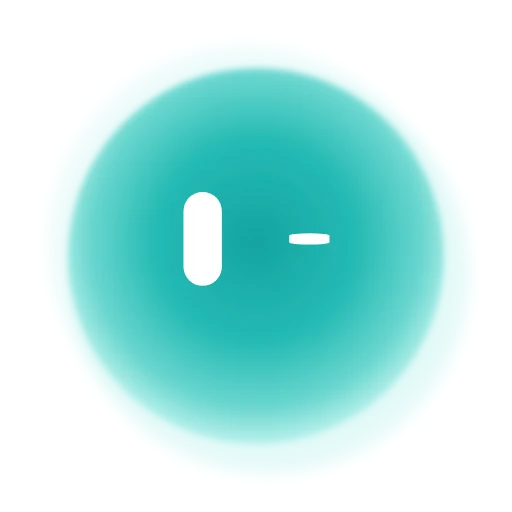
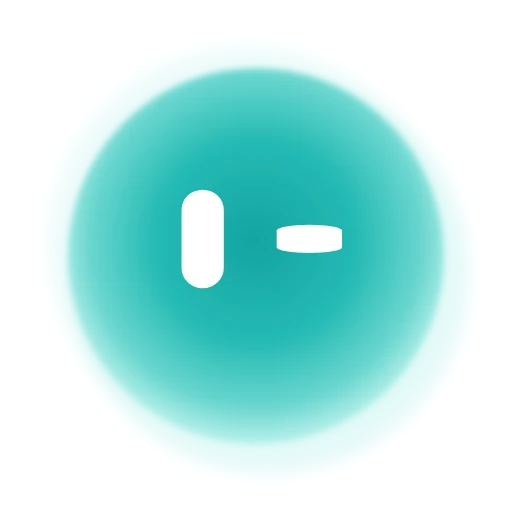
Mascotte : clin d'œil bien visible (complice)
L'œil fermé devient un trait plus large et plus épais, l'œil ouvert un peu plus grand.

Claude-Session: https://claude.ai/code/session_01AT7rn9QSeKipCGAkHZqtFR

Changed region(s): [[0.3438, 0.3438, 0.4375, 0.5625], [0.5312, 0.4375, 0.6875, 0.5]]

diff --git a/site/assets/face.js b/site/assets/face.js
@@ -13,7 +13,7 @@
     amour: { tint: C('#E0457B', '#EE6A97', '#F7A3C0', '#FFD3E2'), eyes: { l: [1.12, 1.08], r: [1.12, 1.08], a: 'pulse' } },
     fierte: { tint: C('#7A4BD8', '#9166E6', '#B596F2', '#DCCBFF'), eyes: { l: [1, .62], r: [1, .62], d: [0, -3] } },
     excite: { tint: C('#F06A12', '#F7872E', '#FBAE66', '#FFD6AE'), eyes: { l: [1.1, 1.2], r: [1.1, 1.2], a: 'sparkle' }, anim: 'hop' },
-    clin: { tint: C('#14A3A0', '#25BAB4', '#6AD6CF', '#B8F1EC'), eyes: { r: [1.05, .12], a: 'wink' } },
+    clin: { tint: C('#14A3A0', '#25BAB4', '#6AD6CF', '#B8F1EC'), eyes: { l: [1.1, 1.05], r: [1.7, .3], a: 'wink' } },
     malice: { tint: C('#8E3FB8', '#A659CC', '#C68DE0', '#EACBF7'), eyes: { l: [1, .55], r: [1, .55], a: 'sly' } },
     surprise: { tint: C('#16A6D8', '#30BCE8', '#76D6F3', '#BFEEFC'), eyes: { l: [1.3, 1.25], r: [1.3, 1.25], d: [-1.5, -2], a: 'pop' } },
     reflexion: { tint: C('#4256C9', '#5A6FDB', '#8E9DEB', '#C9D1FA'), eyes: { l: [.95, .9], r: [.95, .9], d: [0, -5], a: 'ponder' } },

diff --git a/src/web/face.js b/src/web/face.js
@@ -13,7 +13,7 @@
     amour: { tint: C('#E0457B', '#EE6A97', '#F7A3C0', '#FFD3E2'), eyes: { l: [1.12, 1.08], r: [1.12, 1.08], a: 'pulse' } },
     fierte: { tint: C('#7A4BD8', '#9166E6', '#B596F2', '#DCCBFF'), eyes: { l: [1, .62], r: [1, .62], d: [0, -3] } },
     excite: { tint: C('#F06A12', '#F7872E', '#FBAE66', '#FFD6AE'), eyes: { l: [1.1, 1.2], r: [1.1, 1.2], a: 'sparkle' }, anim: 'hop' },
-    clin: { tint: C('#14A3A0', '#25BAB4', '#6AD6CF', '#B8F1EC'), eyes: { r: [1.05, .12], a: 'wink' } },
+    clin: { tint: C('#14A3A0', '#25BAB4', '#6AD6CF', '#B8F1EC'), eyes: { l: [1.1, 1.05], r: [1.7, .3], a: 'wink' } },
     malice: { tint: C('#8E3FB8', '#A659CC', '#C68DE0', '#EACBF7'), eyes: { l: [1, .55], r: [1, .55], a: 'sly' } },
     surprise: { tint: C('#16A6D8', '#30BCE8', '#76D6F3', '#BFEEFC'), eyes: { l: [1.3, 1.25], r: [1.3, 1.25], d: [-1.5, -2], a: 'pop' } },
     reflexion: { tint: C('#4256C9', '#5A6FDB', '#8E9DEB', '#C9D1FA'), eyes: { l: [.95, .9], r: [.95, .9], d: [0, -5], a: 'ponder' } },

diff --git a/src/web/ui.html b/src/web/ui.html
@@ -48,7 +48,7 @@ nav.side{width:232px;flex:none;border-right:1px solid var(--line);padding:20px 1
 @keyframes e-giggle{0%,100%{transform:translateY(0) scaleY(1)}50%{transform:translateY(-1.5px) scaleY(.75)}}
 @keyframes e-pulse{0%,100%{transform:scale(1)}15%{transform:scale(1.18)}30%{transform:scale(1)}45%{transform:scale(1.12)}}
 @keyframes e-sparkle{0%,100%{transform:scale(1)}50%{transform:scale(1.12)}}
-@keyframes e-wink{0%,70%,100%{transform:scaleY(1)}80%,90%{transform:scaleY(1.4)}}
+@keyframes e-wink{0%,70%,100%{transform:scaleY(1)}80%,90%{transform:scaleY(1.25)}}
 @keyframes e-sly{0%,100%{transform:translateX(0)}30%,55%{transform:translateX(3px)}}
 @keyframes e-pop{0%{transform:scale(.6)}60%{transform:scale(1.15)}100%{transform:scale(1)}}
 @keyframes e-ponder{0%,100%{transform:translateX(0)}35%,60%{transform:translateX(-3px)}}

diff --git a/site/assets/site.css b/site/assets/site.css
@@ -166,7 +166,7 @@ section{padding-block:clamp(56px,9vw,104px)}
 @keyframes e-giggle{0%,100%{transform:translateY(0) scaleY(1)}50%{transform:translateY(-1.5px) scaleY(.75)}}
 @keyframes e-pulse{0%,100%{transform:scale(1)}15%{transform:scale(1.18)}30%{transform:scale(1)}45%{transform:scale(1.12)}}
 @keyframes e-sparkle{0%,100%{transform:scale(1)}50%{transform:scale(1.12)}}
-@keyframes e-wink{0%,70%,100%{transform:scaleY(1)}80%,90%{transform:scaleY(1.4)}}
+@keyframes e-wink{0%,70%,100%{transform:scaleY(1)}80%,90%{transform:scaleY(1.25)}}
 @keyframes e-sly{0%,100%{transform:translateX(0)}30%,55%{transform:translateX(3px)}}
 @keyframes e-pop{0%{transform:scale(.6)}60%{transform:scale(1.15)}100%{transform:scale(1)}}
 @keyframes e-ponder{0%,100%{transform:translateX(0)}35%,60%{transform:translateX(-3px)}}

diff --git a/tools/site/parts/eyes.css b/tools/site/parts/eyes.css
@@ -22,7 +22,7 @@
 @keyframes e-giggle{0%,100%{transform:translateY(0) scaleY(1)}50%{transform:translateY(-1.5px) scaleY(.75)}}
 @keyframes e-pulse{0%,100%{transform:scale(1)}15%{transform:scale(1.18)}30%{transform:scale(1)}45%{transform:scale(1.12)}}
 @keyframes e-sparkle{0%,100%{transform:scale(1)}50%{transform:scale(1.12)}}
-@keyframes e-wink{0%,70%,100%{transform:scaleY(1)}80%,90%{transform:scaleY(1.4)}}
+@keyframes e-wink{0%,70%,100%{transform:scaleY(1)}80%,90%{transform:scaleY(1.25)}}
 @keyframes e-sly{0%,100%{transform:translateX(0)}30%,55%{transform:translateX(3px)}}
 @keyframes e-pop{0%{transform:scale(.6)}60%{transform:scale(1.15)}100%{transform:scale(1)}}
 @keyframes e-ponder{0%,100%{transform:translateX(0)}35%,60%{transform:translateX(-3px)}}
